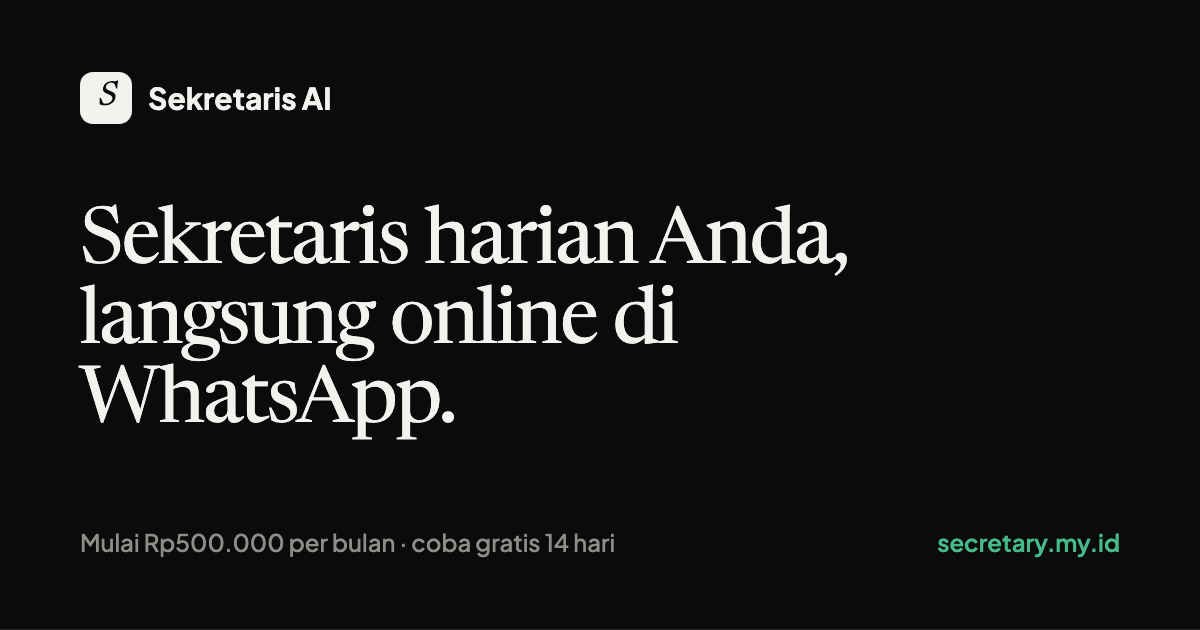
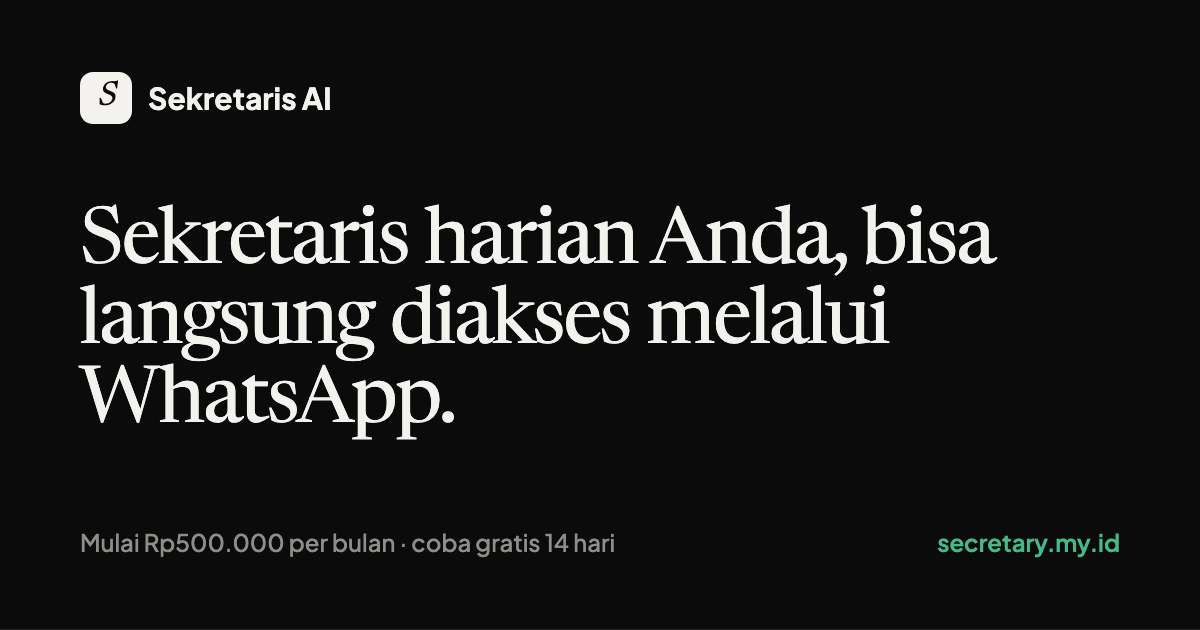
landing: rapikan penulisan WhatsApp dan samakan gambar pratinjau dengan judul

Changed region(s): [[0.3392, 0.4524, 0.74, 0.5429], [0.7092, 0.3317, 0.8325, 0.4222]]

diff --git a/landing/site/index.html b/landing/site/index.html
@@ -57,7 +57,7 @@
   <section class="hero">
     <div class="wrap">
       <div class="copy">
-        <h1>Sekretaris harian Anda, bisa langsung diakses melalui Whatsapp.</h1>
+        <h1>Sekretaris harian Anda, bisa langsung diakses melalui WhatsApp.</h1>
         <p class="lead">Untuk profesional, pemilik usaha, dan eksekutif. Kirim pesan seperti biasa, lalu jadwal, notulen rapat, kabar untuk klien, sampai tempat makan siang terdekat langsung diurus.</p>
         <div class="cta-row">
           <a class="btn btn-primary" href="https://wa.me/__WA_NUMBER__?text=Halo%2C%20saya%20mau%20coba%20Sekretaris%20AI." rel="noopener">

diff --git a/landing/og/og.html b/landing/og/og.html
@@ -20,7 +20,7 @@
 </head>
 <body>
   <div class="brand"><span class="mark">S</span>Sekretaris AI</div>
-  <h1>Sekretaris harian Anda, langsung online di WhatsApp.</h1>
+  <h1>Sekretaris harian Anda, bisa langsung diakses melalui WhatsApp.</h1>
   <div class="foot"><span>Mulai Rp500.000 per bulan · coba gratis 14 hari</span><b>secretary.my.id</b></div>
 </body>
 </html>
